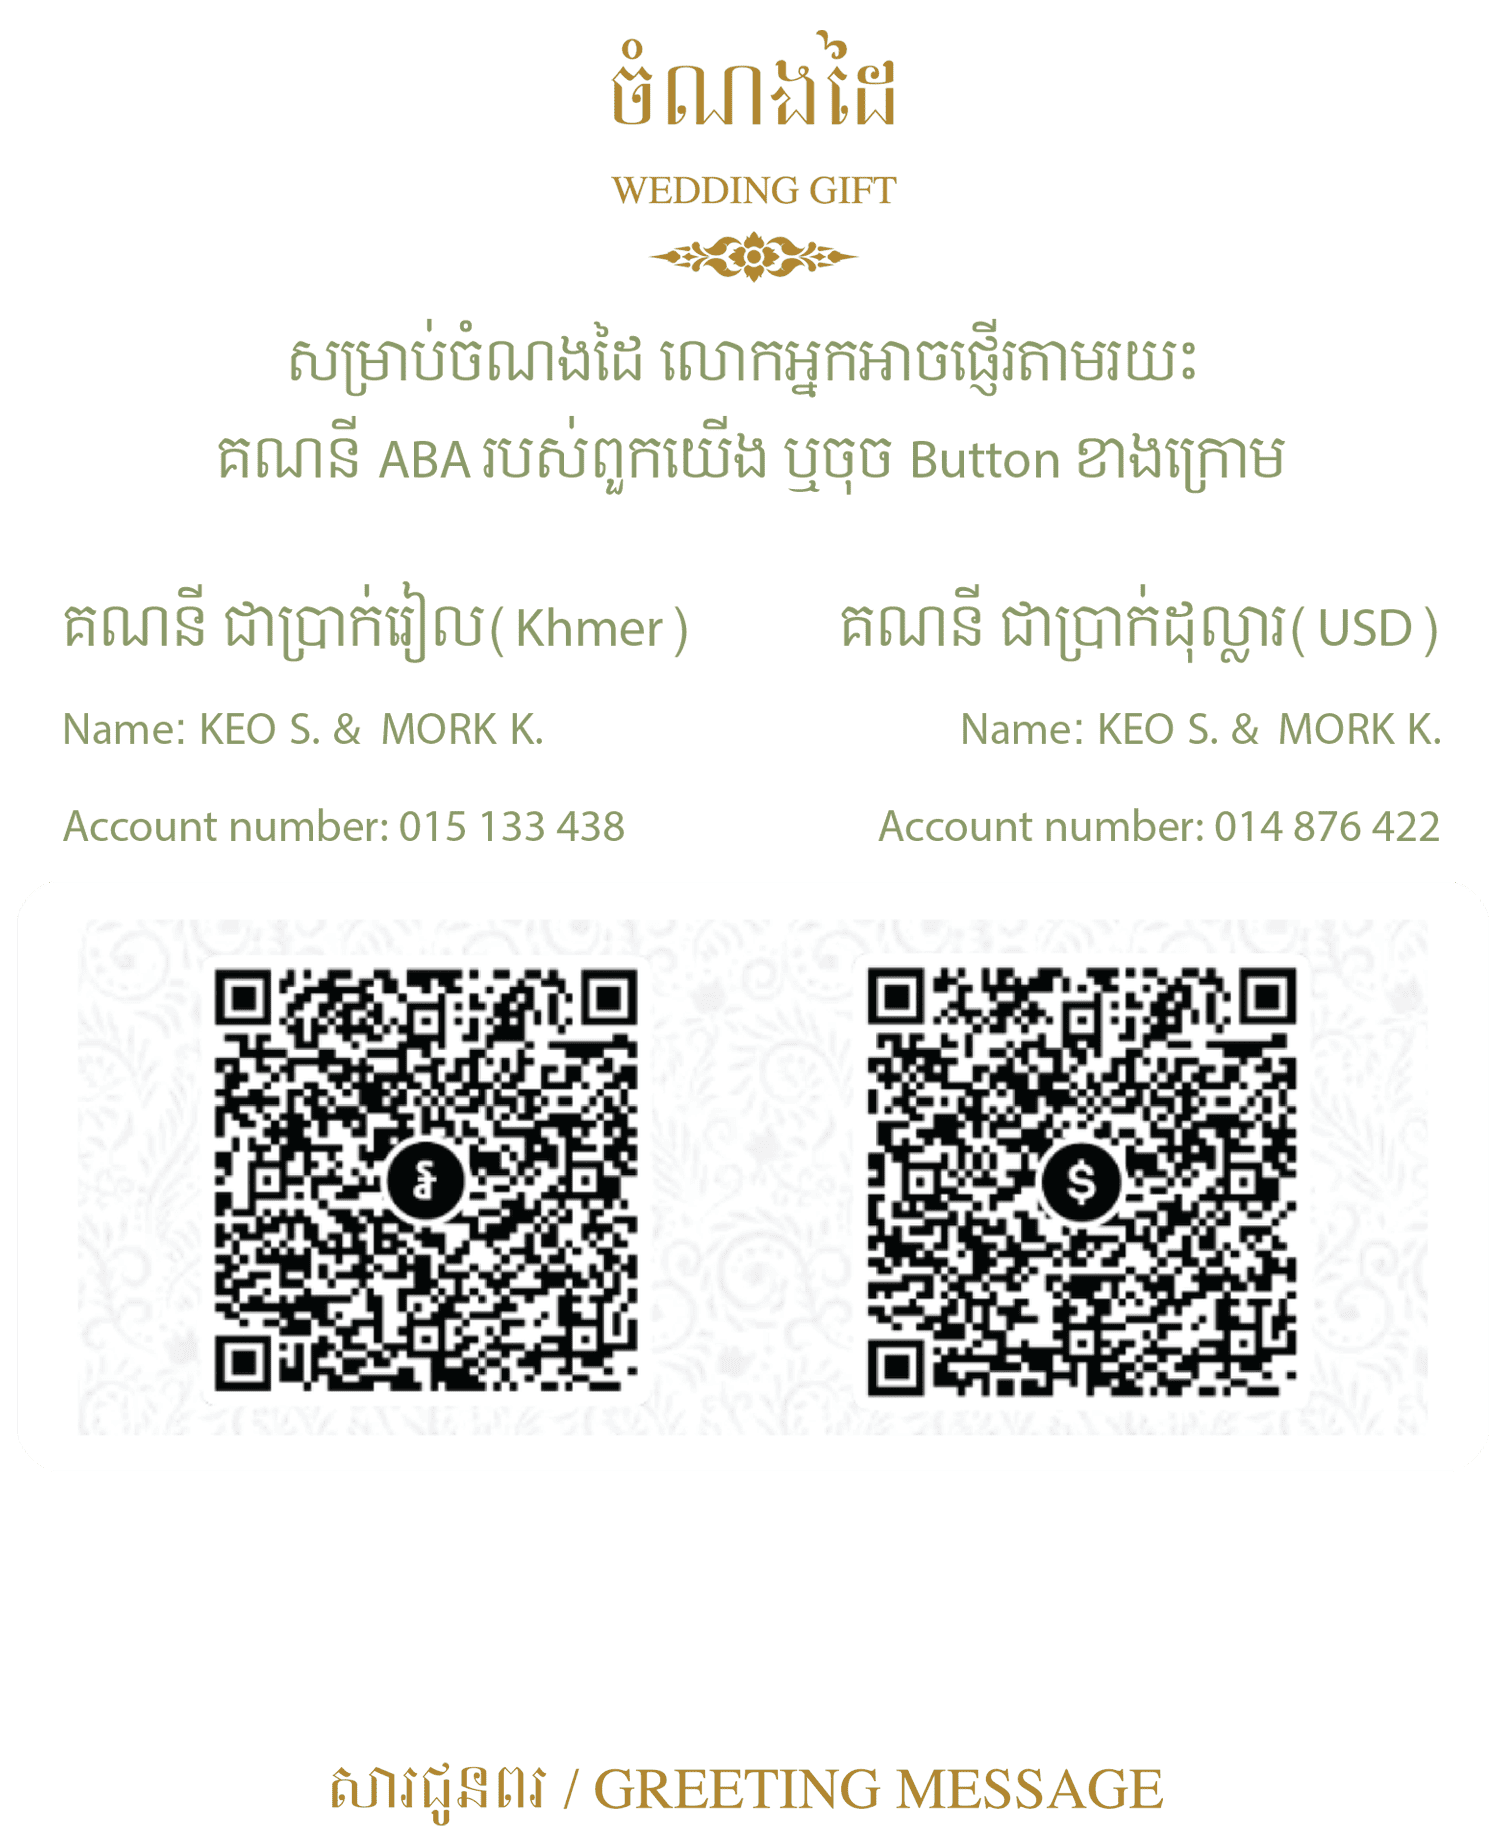
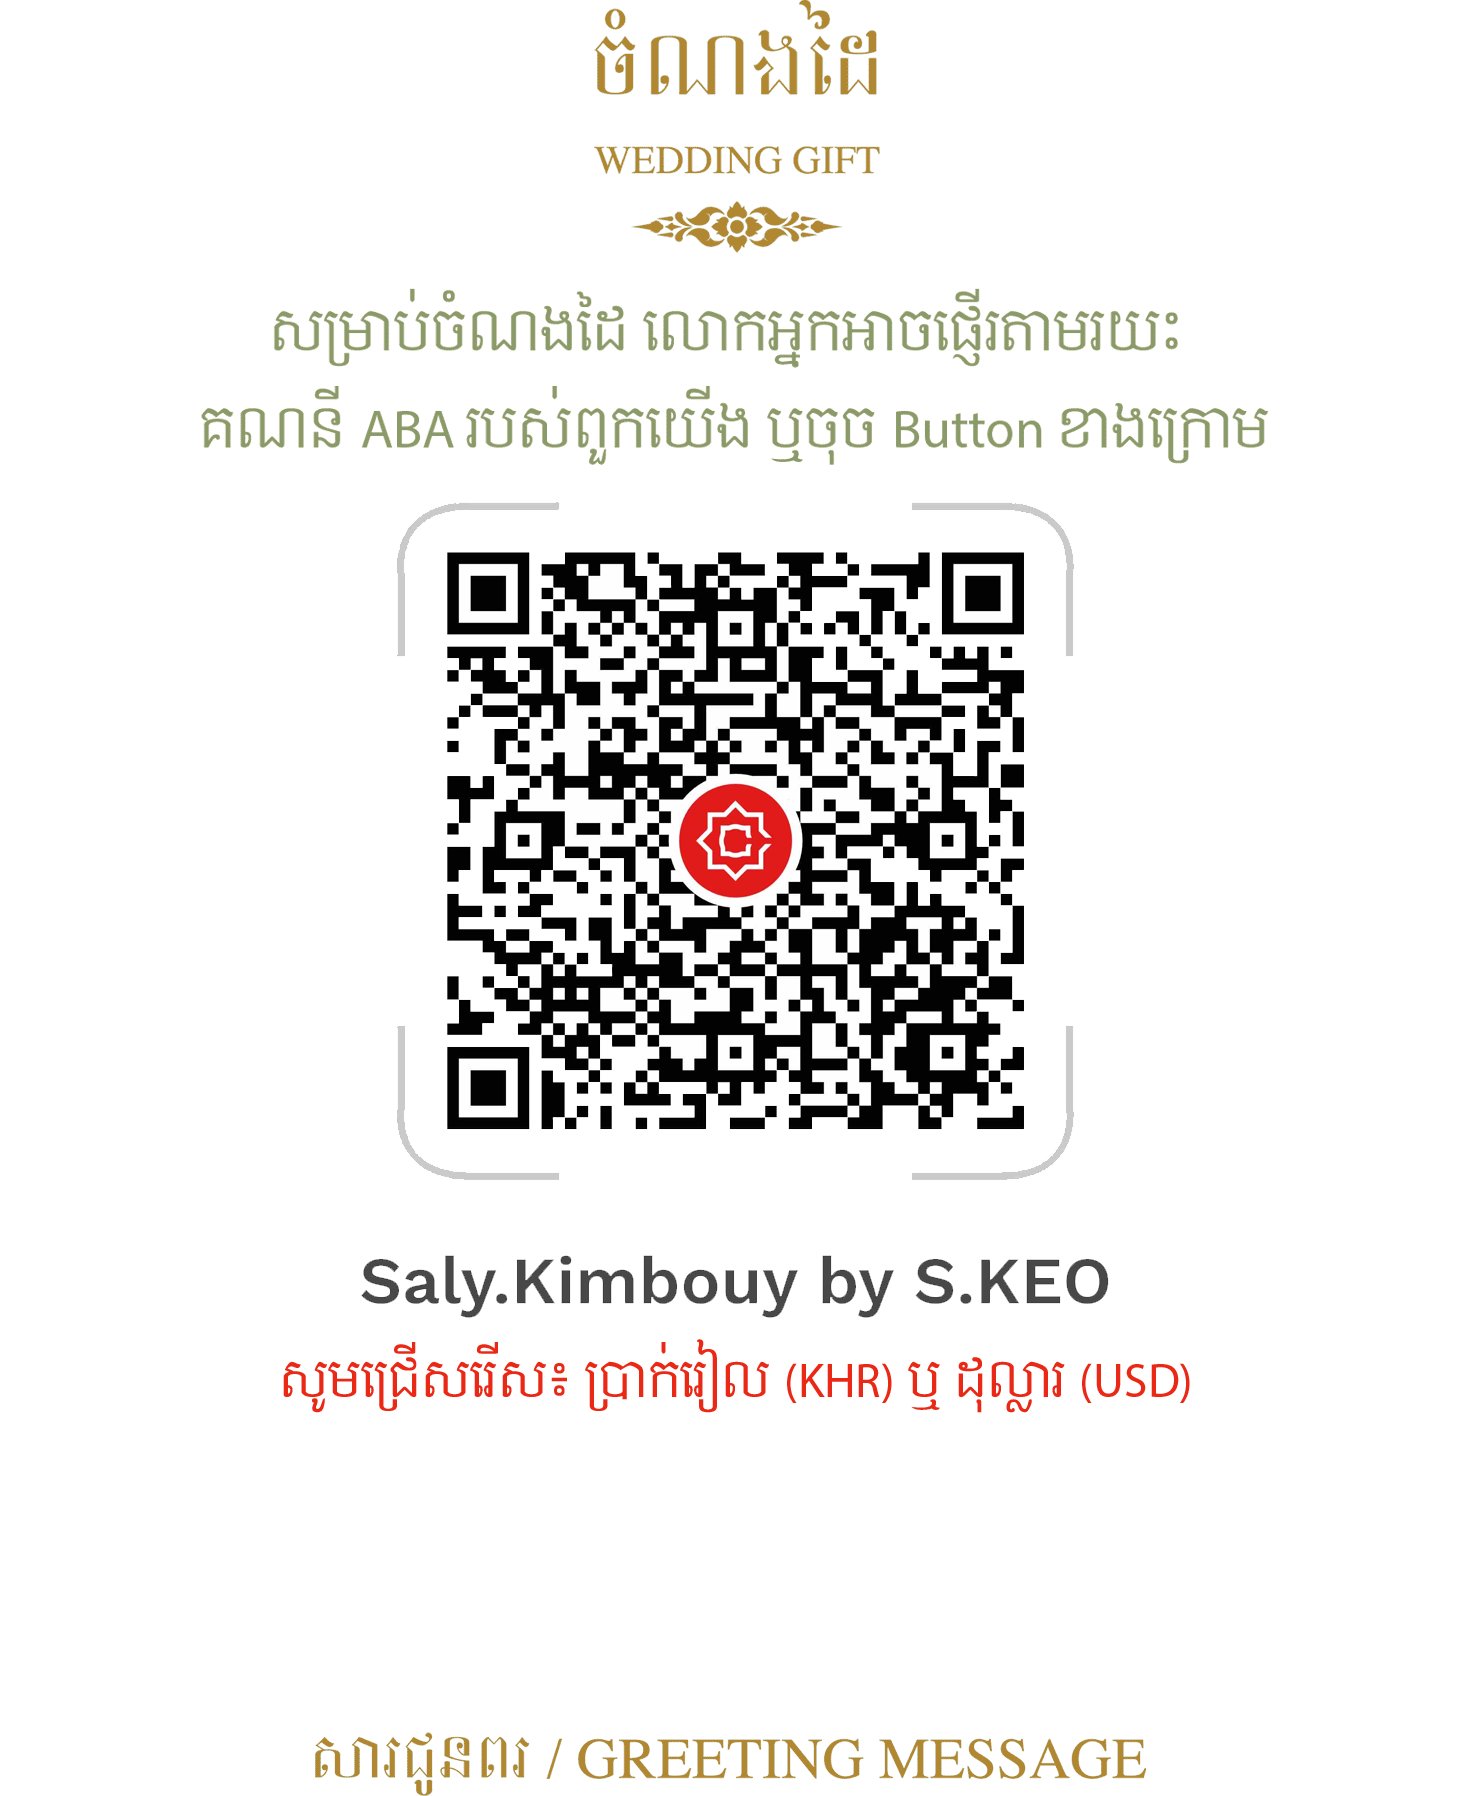
update new Bank

Changed region(s): [[0.0312, 0.0, 0.9688, 0.7795], [0.2188, 0.9354, 0.7812, 1.0]]

diff --git a/apps/saly/index.html b/apps/saly/index.html
@@ -260,7 +260,7 @@
             <div class="cta-big animate-zoom-pulse" style="background-image:url('./images/btn_aba_kh.png')">
               <a
                 class="cta-link"
-                href="https://pay.ababank.com/oRF8/s60gaexm"
+                href="https://link.payway.com.kh/ABAPAYsD404811b"
                 target="_blank"
                 rel="noopener noreferrer"
                 aria-label="Open ABA KHR"
@@ -269,7 +269,7 @@
             <div class="cta-big animate-zoom-pulse" style="background-image:url('./images/btn_aba_usd.png')">
               <a
                 class="cta-link"
-                href="https://pay.ababank.com/oRF8/ovtybmbs"
+                href="https://link.payway.com.kh/ABAPAY9H404812I"
                 target="_blank"
                 rel="noopener noreferrer"
                 aria-label="Open ABA USD"
